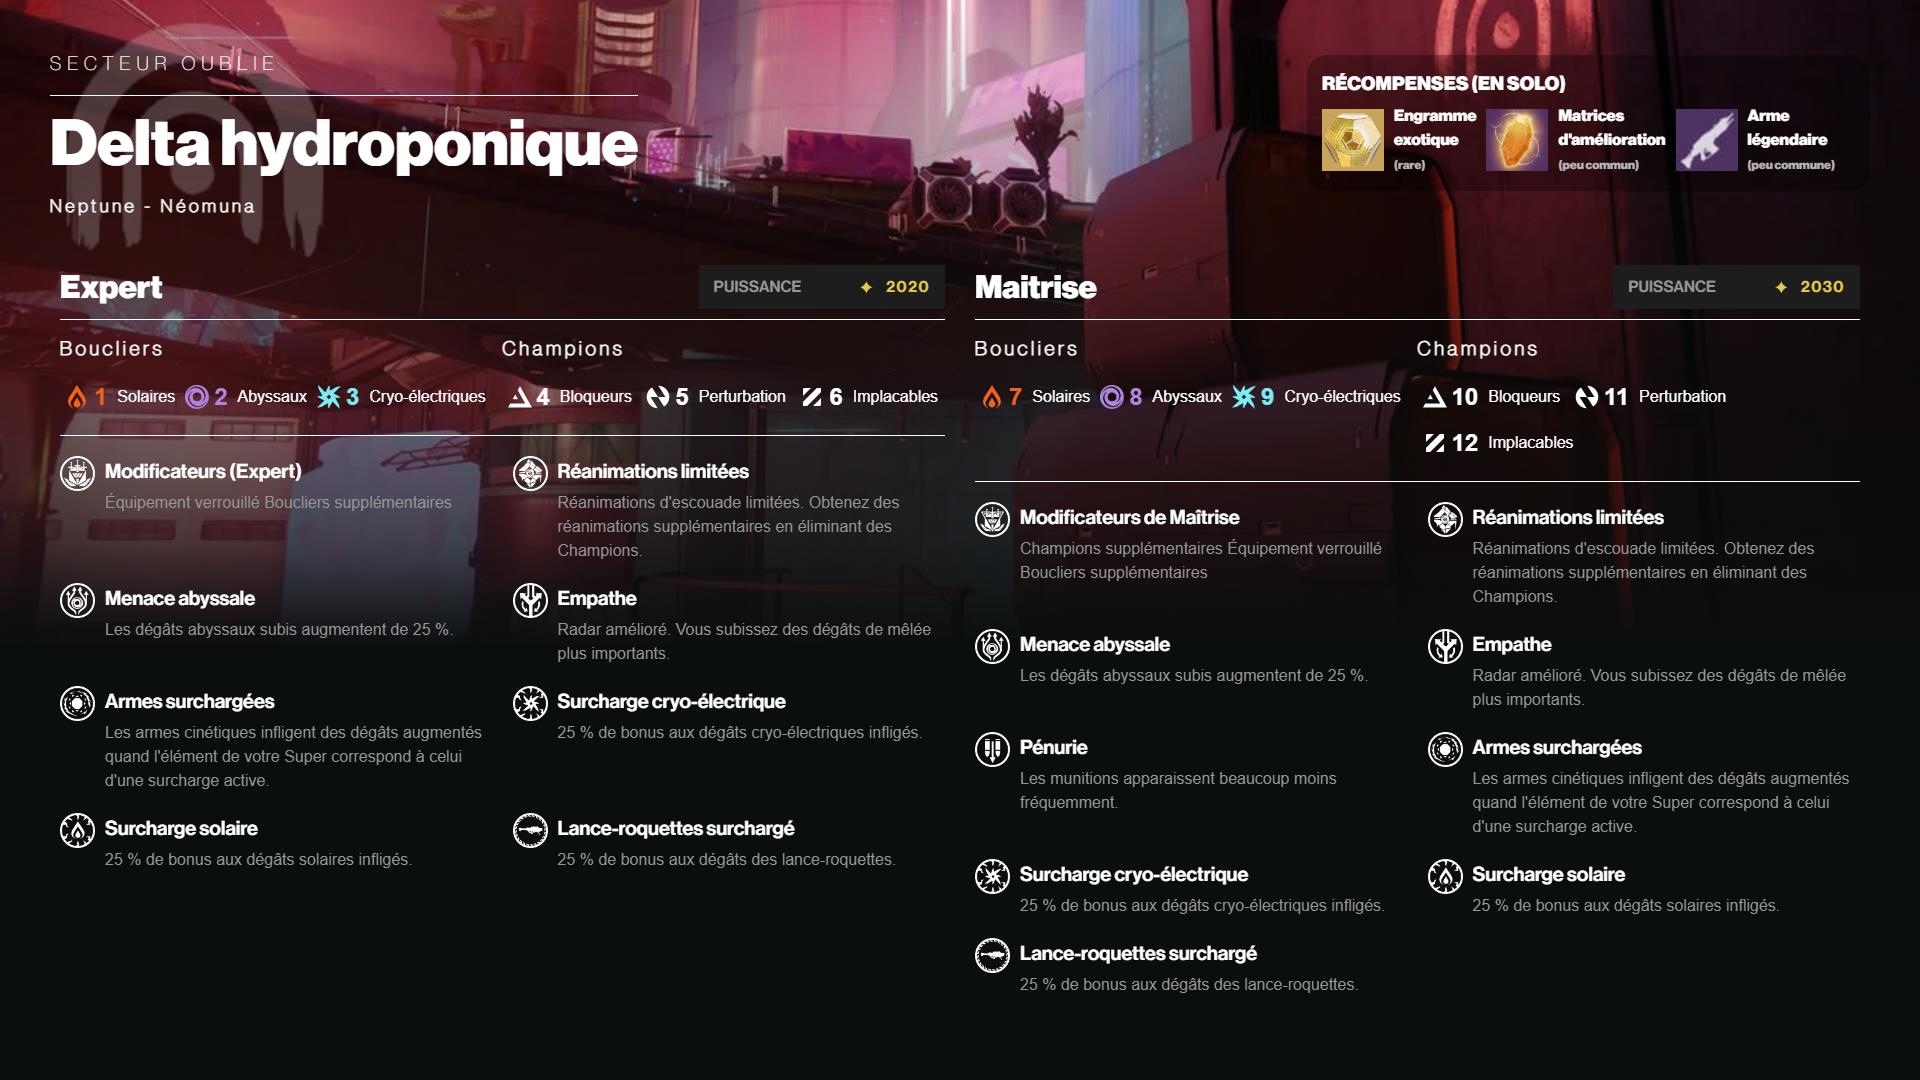
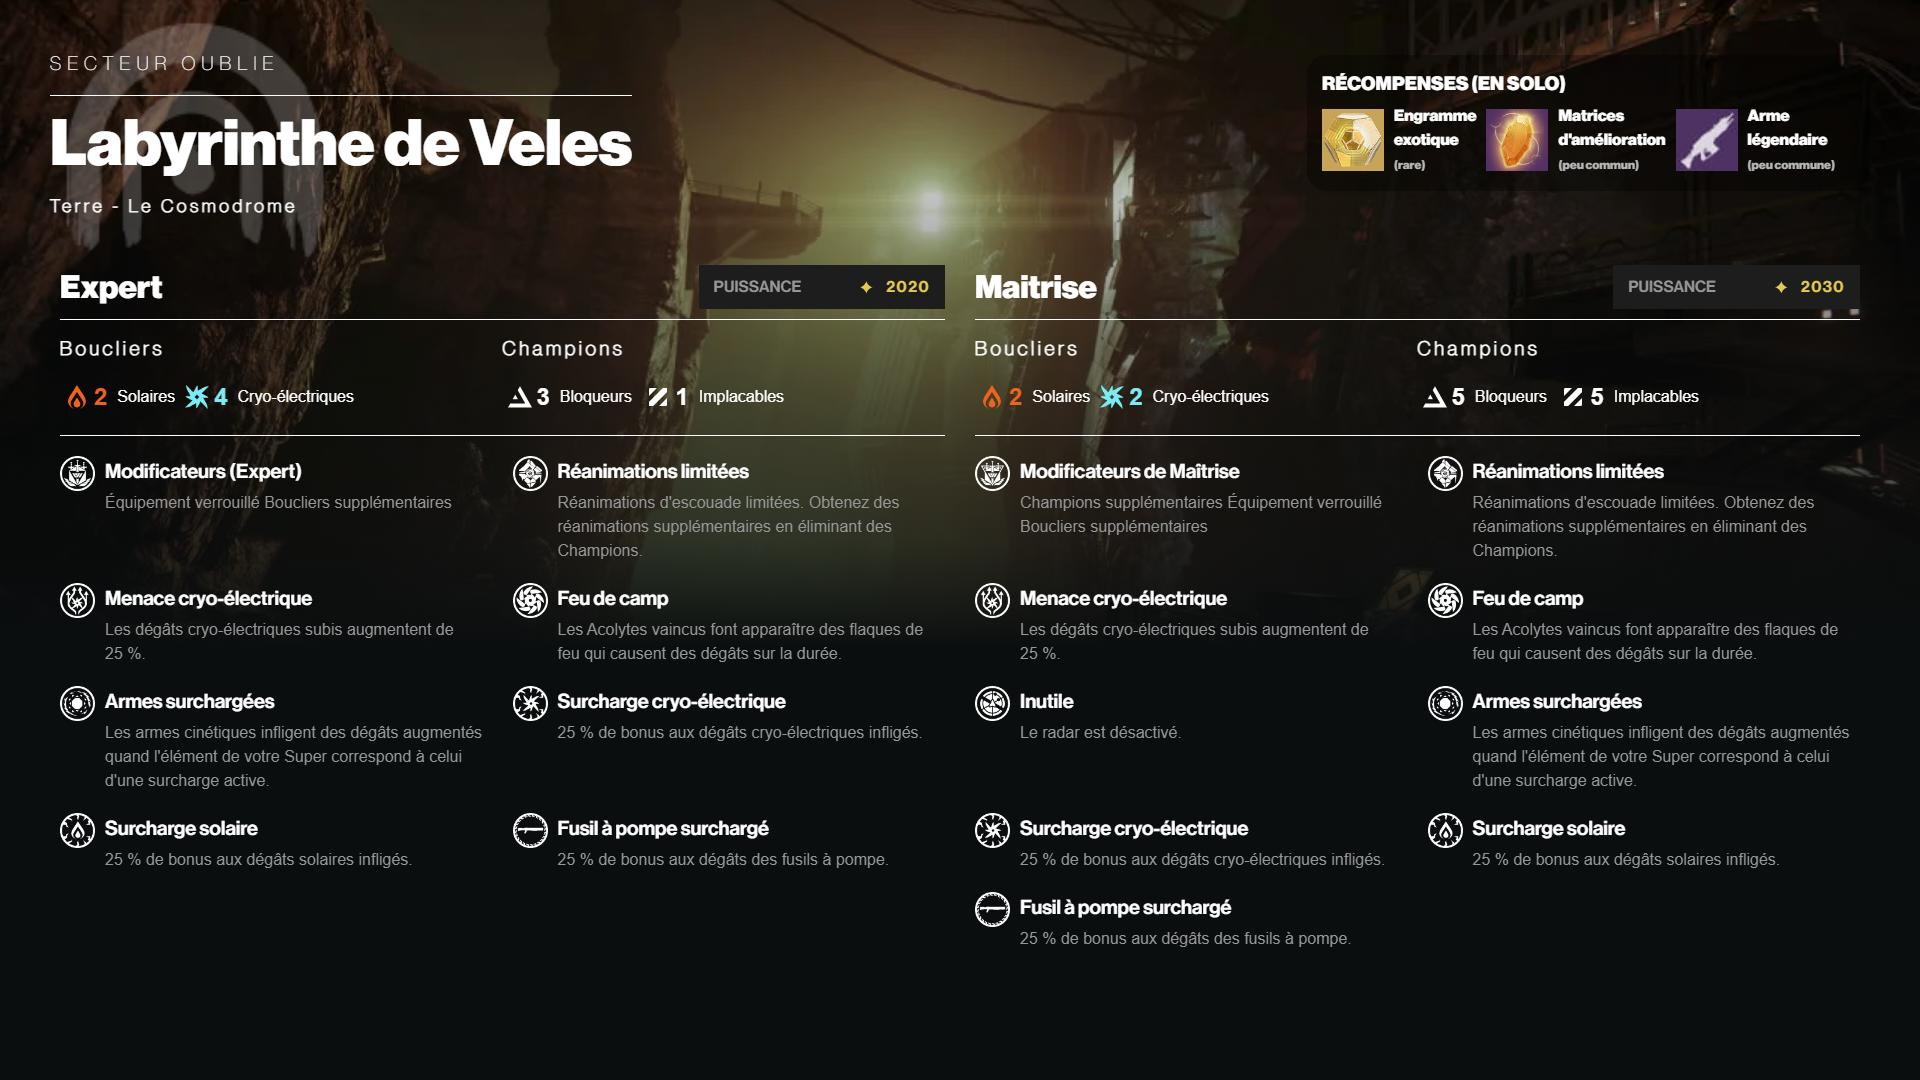
Merging Generateactivity and getter to the Bot

diff --git a/BotOfTheDisciple/Ressources/Output.html b/BotOfTheDisciple/Ressources/Output.html
@@ -10,15 +10,15 @@
 </head>
 <body>
 <div class="background">
-<img alt="Background Image" class="background-image" id="sector_background" src="https://www.bungie.net/img/destiny_content/pgcr/neomuna_lost_sector_hydroponics_delta.jpg"/>
+<img alt="Background Image" class="background-image" id="sector_background" src="https://www.bungie.net/img/destiny_content/pgcr/cosmodrome-lost-sector-dry-sea.jpg"/>
 <div class="overlay"></div>
 <div class="top-title">
 <div class="background-image-container">
 <img alt="Sector-Icon" class="toptitle-background-image" id="Sector-Icon" src="https://www.bungie.net/common/destiny2_content/icons/DestinyActivityModeDefinition_7d11acd7d5a3daebc0a0c906452932d6.png"/>
 </div>
 <p class="activity-type animated fadeInRight delay-1" id="activity_type">SECTEUR OUBLIE</p>
-<h1 class="activity-name animated fadeInRight delay-2" id="activity_name">Delta hydroponique</h1>
-<p class="activity-description animated fadeInRight delay-3" id="activity_description">Neptune - Néomuna</p>
+<h1 class="activity-name animated fadeInRight delay-2" id="activity_name">Labyrinthe de Veles</h1>
+<p class="activity-description animated fadeInRight delay-3" id="activity_description">Terre - Le Cosmodrome</p>
 </div>
 <div class="reward-section">
 <div class="reward-title">RÉCOMPENSES (EN SOLO)</div>
@@ -48,26 +48,20 @@
 <div class="column-title">Boucliers</div>
 <div class="info-shield-champ-container" id="info_shield_container_expert"><div class="info-shield-champ">
 <img src="https://www.bungie.net/common/destiny2_content/icons/DestinyDamageTypeDefinition_2a1773e10968f2d088b97c22b22bba9e.png"/>
-<span class="count Solaires">1</span>Solaires
-</div><div class="info-shield-champ">
-<img src="https://www.bungie.net/common/destiny2_content/icons/DestinyDamageTypeDefinition_ceb2f6197dccf3958bb31cc783eb97a0.png"/>
-<span class="count Abyssaux">2</span>Abyssaux
+<span class="count Solaires">2</span>Solaires
 </div><div class="info-shield-champ">
 <img src="https://www.bungie.net/common/destiny2_content/icons/DestinyDamageTypeDefinition_092d066688b879c807c3b460afdd61e6.png"/>
-<span class="count Cryo-électriques">3</span>Cryo-électriques
+<span class="count Cryo-électriques">4</span>Cryo-électriques
 </div></div>
 </div>
 <div class="shield-champion-column">
 <div class="column-title">Champions</div>
 <div class="info-shield-champ-container" id="info_champ_container_expert"><div class="info-shield-champ">
 <img src="https://www.bungie.net/common/destiny2_content/icons/DestinyBreakerTypeDefinition_07b9ba0194e85e46b258b04783e93d5d.png"/>
-<span class="count" id="text">4</span>Bloqueurs
-</div> <div class="info-shield-champ">
-<img src="https://www.bungie.net/common/destiny2_content/icons/DestinyBreakerTypeDefinition_da558352b624d799cf50de14d7cb9565.png"/>
-<span class="count" id="text">5</span>Perturbation
+<span class="count" id="text">3</span>Bloqueurs
 </div> <div class="info-shield-champ">
 <img src="https://www.bungie.net/common/destiny2_content/icons/DestinyBreakerTypeDefinition_825a438c85404efd6472ff9e97fc7251.png"/>
-<span class="count" id="text">6</span>Implacables
+<span class="count" id="text">1</span>Implacables
 </div> </div>
 </div>
 </div>
@@ -90,19 +84,19 @@ Boucliers supplémentaires</div>
 </div>
 </div><div class="modifier">
 <div class="modifier-icon">
-<img src="https://www.bungie.net/common/destiny2_content/icons/219a3080f3e7341d5ee3959c2ea3130b.png"/>
+<img src="https://www.bungie.net/common/destiny2_content/icons/facdcba310cb7ea0f8281247f72944e6.png"/>
 </div>
 <div class="modifier-text">
-<div class="modifier-title">Menace abyssale</div>
-<div class="modifier-detail">Les dégâts abyssaux subis augmentent de 25 %.</div>
+<div class="modifier-title">Menace cryo-électrique</div>
+<div class="modifier-detail">Les dégâts cryo-électriques subis augmentent de 25 %.</div>
 </div>
 </div><div class="modifier">
 <div class="modifier-icon">
-<img src="https://www.bungie.net/common/destiny2_content/icons/2cccd7f5c06baa91c1dcce43c4d57095.png"/>
+<img src="https://www.bungie.net/common/destiny2_content/icons/975f2f90e96a9640ff718e2e0155f82a.png"/>
 </div>
 <div class="modifier-text">
-<div class="modifier-title">Empathe</div>
-<div class="modifier-detail">Radar amélioré. Vous subissez des dégâts de mêlée plus importants.</div>
+<div class="modifier-title">Feu de camp</div>
+<div class="modifier-detail">Les Acolytes vaincus font apparaître des flaques de feu qui causent des dégâts sur la durée.</div>
 </div>
 </div><div class="modifier">
 <div class="modifier-icon">
@@ -130,11 +124,11 @@ Boucliers supplémentaires</div>
 </div>
 </div><div class="modifier">
 <div class="modifier-icon">
-<img src="https://www.bungie.net/common/destiny2_content/icons/5f85e125b8e9db0f1ffbb1b188955f17.png"/>
+<img src="https://www.bungie.net/common/destiny2_content/icons/7354d14aa1747248375c1e73c0c791a8.png"/>
 </div>
 <div class="modifier-text">
-<div class="modifier-title">Lance-roquettes surchargé</div>
-<div class="modifier-detail">25 % de bonus aux dégâts des lance-roquettes.</div>
+<div class="modifier-title">Fusil à pompe surchargé</div>
+<div class="modifier-detail">25 % de bonus aux dégâts des fusils à pompe.</div>
 </div>
 </div></div>
 </div>
@@ -154,26 +148,20 @@ Boucliers supplémentaires</div>
 <div class="column-title">Boucliers</div>
 <div class="info-shield-champ-container" id="info_shield_container_master"><html><body><div class="info-shield-champ">
 <img src="https://www.bungie.net/common/destiny2_content/icons/DestinyDamageTypeDefinition_2a1773e10968f2d088b97c22b22bba9e.png"/>
-<span class="count Solaires">7</span>Solaires
-</div></body></html><html><body><div class="info-shield-champ">
-<img src="https://www.bungie.net/common/destiny2_content/icons/DestinyDamageTypeDefinition_ceb2f6197dccf3958bb31cc783eb97a0.png"/>
-<span class="count Abyssaux">8</span>Abyssaux
+<span class="count Solaires">2</span>Solaires
 </div></body></html><html><body><div class="info-shield-champ">
 <img src="https://www.bungie.net/common/destiny2_content/icons/DestinyDamageTypeDefinition_092d066688b879c807c3b460afdd61e6.png"/>
-<span class="count Cryo-électriques">9</span>Cryo-électriques
+<span class="count Cryo-électriques">2</span>Cryo-électriques
 </div></body></html></div>
 </div>
 <div class="shield-champion-column">
 <div class="column-title">Champions</div>
 <div class="info-shield-champ-container" id="info_champ_container_master"><html><body><div class="info-shield-champ">
 <img src="https://www.bungie.net/common/destiny2_content/icons/DestinyBreakerTypeDefinition_07b9ba0194e85e46b258b04783e93d5d.png"/>
-<span class="count" id="text">10</span>Bloqueurs
-</div> </body></html><html><body><div class="info-shield-champ">
-<img src="https://www.bungie.net/common/destiny2_content/icons/DestinyBreakerTypeDefinition_da558352b624d799cf50de14d7cb9565.png"/>
-<span class="count" id="text">11</span>Perturbation
+<span class="count" id="text">5</span>Bloqueurs
 </div> </body></html><html><body><div class="info-shield-champ">
 <img src="https://www.bungie.net/common/destiny2_content/icons/DestinyBreakerTypeDefinition_825a438c85404efd6472ff9e97fc7251.png"/>
-<span class="count" id="text">12</span>Implacables
+<span class="count" id="text">5</span>Implacables
 </div> </body></html></div>
 </div>
 </div>
@@ -197,27 +185,27 @@ Boucliers supplémentaires</div>
 </div>
 </div></body></html><html><body><div class="modifier">
 <div class="modifier-icon">
-<img src="https://www.bungie.net/common/destiny2_content/icons/219a3080f3e7341d5ee3959c2ea3130b.png"/>
+<img src="https://www.bungie.net/common/destiny2_content/icons/facdcba310cb7ea0f8281247f72944e6.png"/>
 </div>
 <div class="modifier-text">
-<div class="modifier-title">Menace abyssale</div>
-<div class="modifier-detail">Les dégâts abyssaux subis augmentent de 25 %.</div>
+<div class="modifier-title">Menace cryo-électrique</div>
+<div class="modifier-detail">Les dégâts cryo-électriques subis augmentent de 25 %.</div>
 </div>
 </div></body></html><html><body><div class="modifier">
 <div class="modifier-icon">
-<img src="https://www.bungie.net/common/destiny2_content/icons/2cccd7f5c06baa91c1dcce43c4d57095.png"/>
+<img src="https://www.bungie.net/common/destiny2_content/icons/975f2f90e96a9640ff718e2e0155f82a.png"/>
 </div>
 <div class="modifier-text">
-<div class="modifier-title">Empathe</div>
-<div class="modifier-detail">Radar amélioré. Vous subissez des dégâts de mêlée plus importants.</div>
+<div class="modifier-title">Feu de camp</div>
+<div class="modifier-detail">Les Acolytes vaincus font apparaître des flaques de feu qui causent des dégâts sur la durée.</div>
 </div>
 </div></body></html><html><body><div class="modifier">
 <div class="modifier-icon">
-<img src="https://www.bungie.net/common/destiny2_content/icons/ceec41607610e844a1c8bb5ca877e62a.png"/>
+<img src="https://www.bungie.net/common/destiny2_content/icons/c15f55a423934f6a96c95873d72306a2.png"/>
 </div>
 <div class="modifier-text">
-<div class="modifier-title">Pénurie</div>
-<div class="modifier-detail">Les munitions apparaissent beaucoup moins fréquemment.</div>
+<div class="modifier-title">Inutile</div>
+<div class="modifier-detail">Le radar est désactivé.</div>
 </div>
 </div></body></html><html><body><div class="modifier">
 <div class="modifier-icon">
@@ -245,11 +233,11 @@ Boucliers supplémentaires</div>
 </div>
 </div></body></html><html><body><div class="modifier">
 <div class="modifier-icon">
-<img src="https://www.bungie.net/common/destiny2_content/icons/5f85e125b8e9db0f1ffbb1b188955f17.png"/>
+<img src="https://www.bungie.net/common/destiny2_content/icons/7354d14aa1747248375c1e73c0c791a8.png"/>
 </div>
 <div class="modifier-text">
-<div class="modifier-title">Lance-roquettes surchargé</div>
-<div class="modifier-detail">25 % de bonus aux dégâts des lance-roquettes.</div>
+<div class="modifier-title">Fusil à pompe surchargé</div>
+<div class="modifier-detail">25 % de bonus aux dégâts des fusils à pompe.</div>
 </div>
 </div></body></html></div>
 </div>

diff --git a/BotOfTheDisciple/BotOfTheDiciple.py b/BotOfTheDisciple/BotOfTheDiciple.py
@@ -1,4 +1,5 @@
 import os
+import sys
 import discord
 from discord import app_commands
 from discord.ext import commands
@@ -6,11 +7,12 @@ from datetime import datetime, date
 import random
 import pytz
 import asyncio
-import pandas as pd
 import requests
-import chardet
-from io import StringIO
 from collections import Counter
+
+sys.path.append(os.path.abspath(os.path.join(os.path.dirname(__file__), '..')))
+sys.path.append(os.path.abspath(os.path.join(os.path.dirname(__file__), '../PythonProject/Source')))
+from PythonProject.Source.LostSectorGenerator import *
 
 intents = discord.Intents.default()
 intents.message_content = True
@@ -35,6 +37,9 @@ async def on_ready():
     # Debug pour vérifier les commandes enregistrées
     for command in bot.tree.get_commands():
         print(f'Command: {command.name}, Description: {command.description}')
+
+    # Actualisation du Secteur oublié du jour lorsque le bot s'initialise
+    GenerateActivity()
 
 # Enregistrement des commandes slash
 @bot.tree.command(name="help", description="Liste des commandes disponibles")
@@ -271,100 +276,73 @@ async def chatgif(interaction: discord.Interaction):
 # endregion
 
 # region LostSectorPublication
-# Section : Détection de l'encodage
-def detect_encoding(data):
-    result = chardet.detect(data)
-    return result['encoding']
-
-# Section : Lecture du Google Sheet
-def read_google_sheet(sheet_id: str, page_id_current: int) -> pd.DataFrame:
-    url = f"https://docs.google.com/spreadsheets/d/{sheet_id}/export?gid={page_id_current}&format=csv"
-    response = requests.get(url)
-    response.raise_for_status()
-
-    # Détection de l'encodage
-    detected_encoding = detect_encoding(response.content)
-
-    # Conversion en UTF-8
-    csv_data = response.content.decode(detected_encoding).encode('utf-8').decode('utf-8')
-    df = pd.read_csv(StringIO(csv_data), encoding='utf-8')
-    return df
-
-# Section : Fabrication des fields
-def create_fields(df: pd.DataFrame) -> dict:
-    row = df.loc[0]  # Lire la première ligne (index 0)
-
-    # Vérification des colonnes nécessaires
-    required_columns = [
-        "Nom", "Surcharge1", "Surcharge2", "Power Expert", "Power Maitrise", "Expert Solaires",
-        "Expert Abyssaux", "Expert Cryo-électriques", "Expert Stasiques", "Expert Filobscures",
-        "Expert Brise-bouclier", "Expert Perturbation", "Expert Chancellement", "Maitrise Solaires",
-        "Maitrise Abyssaux", "Maitrise Cryo-électriques", "Maitrise Stasiques", "Maitrise Filobscures",
-        "Maitrise Brise-bouclier", "Maitrise Perturbation", "Maitrise Chancellement"
-    ]
-
-    for col in required_columns:
-        if col not in df.columns:
-            raise ValueError(f"Colonne manquante: {col}")
-
-    # Parser les informations nécessaires, en ignorant les valeurs "nan"
-    fields = {col: row[col] if not pd.isna(row[col]) else None for col in required_columns}
-    return fields
-
 # Section : Fabrication de l'embed
-def create_embed(fields: dict) -> discord.Embed:
+def create_embed() -> discord.Embed:
     # Gestion des surcharges
     surcharges = []
-    if fields["Surcharge1"] == "Cryo" or fields["Surcharge2"] == "Cryo":
-        surcharges.append("<:Cryo:1270715011781627904>")
-    if fields["Surcharge1"] == "Abyssale" or fields["Surcharge2"] == "Abyssale":
-        surcharges.append("<:Abyssale:1270715025660711023>")
-    if fields["Surcharge1"] == "Solaire" or fields["Surcharge2"] == "Solaire":
-        surcharges.append("<:Solaire:1270714993553178624>")
+    for surcharge in GetSurcharges():
+        if surcharge == "Cryo":
+            surcharges.append("<:Cryo:1270715011781627904>")
+        elif surcharge == "Abyssale":
+            surcharges.append("<:Abyssale:1270715025660711023>")
+        elif surcharge == "Solaire":
+            surcharges.append("<:Solaire:1270714993553178624>")
 
     # Construction des champs Expert et Maitrise
     expert_field_value = ""
     maitrise_field_value = ""
 
-    if any(fields[col] for col in ["Expert Solaires", "Expert Abyssaux", "Expert Cryo-électriques"]):
+    # Boucliers Expert
+    expert_shields = GetShields(True)
+    if expert_shields:
         expert_field_value += "Boucliers\n"
-        if fields["Expert Solaires"]:
-            expert_field_value += f"> <:Solaire:1270714993553178624> {fields['Expert Solaires']}\n"
-        if fields["Expert Abyssaux"]:
-            expert_field_value += f"> <:Abyssale:1270715025660711023> {fields['Expert Abyssaux']}\n"
-        if fields["Expert Cryo-électriques"]:
-            expert_field_value += f"> <:Cryo:1270715011781627904> {fields['Expert Cryo-électriques']}\n"
+        for shield, count in expert_shields.items():
+            if shield == "Solaires":
+                expert_field_value += f"> <:Solaire:1270714993553178624> {count}\n"
+            elif shield == "Abyssaux":
+                expert_field_value += f"> <:Abyssale:1270715025660711023> {count}\n"
+            elif shield == "Cryo-électriques":
+                expert_field_value += f"> <:Cryo:1270715011781627904> {count}\n"
 
-    if any(fields[col] for col in ["Expert Brise-bouclier", "Expert Perturbation", "Expert Chancellement"]):
+    # Champions Expert
+    expert_champs = GetChamps(True)
+    if expert_champs:
         expert_field_value += "\nChampions\n"
-        if fields["Expert Brise-bouclier"]:
-            expert_field_value += f"> <:Bloqueur:1270042102033678388> {fields['Expert Brise-bouclier']}\n"
-        if fields["Expert Perturbation"]:
-            expert_field_value += f"> <:Surcharge:1270042140944236619> {fields['Expert Perturbation']}\n"
-        if fields["Expert Chancellement"]:
-            expert_field_value += f"> <:Implacable:1270042120857849877> {fields['Expert Chancellement']}\n"
+        for champ, count in expert_champs.items():
+            if champ == "Brise-bouclier":
+                expert_field_value += f"> <:Bloqueur:1270042102033678388> {count}\n"
+            elif champ == "Perturbation":
+                expert_field_value += f"> <:Surcharge:1270042140944236619> {count}\n"
+            elif champ == "Chancellement":
+                expert_field_value += f"> <:Implacable:1270042120857849877> {count}\n"
 
-    if any(fields[col] for col in ["Maitrise Solaires", "Maitrise Abyssaux", "Maitrise Cryo-électriques"]):
+    # Boucliers Maitrise
+    maitrise_shields = GetShields(False)
+    if maitrise_shields:
         maitrise_field_value += "Boucliers\n"
-        if fields["Maitrise Solaires"]:
-            maitrise_field_value += f"> <:Solaire:1270714993553178624> {fields['Maitrise Solaires']}\n"
-        if fields["Maitrise Abyssaux"]:
-            maitrise_field_value += f"> <:Abyssale:1270715025660711023> {fields['Maitrise Abyssaux']}\n"
-        if fields["Maitrise Cryo-électriques"]:
-            maitrise_field_value += f"> <:Cryo:1270715011781627904> {fields['Maitrise Cryo-électriques']}\n"
+        for shield, count in maitrise_shields.items():
+            if shield == "Solaires":
+                maitrise_field_value += f"> <:Solaire:1270714993553178624> {count}\n"
+            elif shield == "Abyssaux":
+                maitrise_field_value += f"> <:Abyssale:1270715025660711023> {count}\n"
+            elif shield == "Cryo-électriques":
+                maitrise_field_value += f"> <:Cryo:1270715011781627904> {count}\n"
 
-    if any(fields[col] for col in ["Maitrise Brise-bouclier", "Maitrise Perturbation", "Maitrise Chancellement"]):
+    # Champions Maitrise
+    maitrise_champs = GetChamps(False)
+    if maitrise_champs:
         maitrise_field_value += "\nChampions\n"
-        if fields["Maitrise Brise-bouclier"]:
-            maitrise_field_value += f"> <:Bloqueur:1270042102033678388> {fields['Maitrise Brise-bouclier']}\n"
-        if fields["Maitrise Perturbation"]:
-            maitrise_field_value += f"> <:Surcharge:1270042140944236619> {fields['Maitrise Perturbation']}\n"
-        if fields["Maitrise Chancellement"]:
-            maitrise_field_value += f"> <:Implacable:1270042120857849877> {fields['Maitrise Chancellement']}\n"
+        for champ, count in maitrise_champs.items():
+            if champ == "Brise-bouclier":
+                maitrise_field_value += f"> <:Bloqueur:1270042102033678388> {count}\n"
+            elif champ == "Perturbation":
+                maitrise_field_value += f"> <:Surcharge:1270042140944236619> {count}\n"
+            elif champ == "Chancellement":
+                maitrise_field_value += f"> <:Implacable:1270042120857849877> {count}\n"
 
     # Créer un embed pour afficher les informations
     embed = discord.Embed(
-        title=fields["Nom"],
+        title=GetActivityName(),
         description=(
             "**Récompenses**\n"
             "<:Engramme_Exo:1270719580322660425> | <:Lengendaire:1270719601646374954> | <:Matrice:1270042340324544604>"
@@ -378,16 +356,17 @@ def create_embed(fields: dict) -> discord.Embed:
         icon_url="https://www.bungie.net/common/destiny2_content/icons/DestinyActivityModeDefinition_7d11acd7d5a3daebc0a0c906452932d6.png"
     )
 
+    # Ajout des champs pour Expert et Maitrise
     if expert_field_value.strip():  # Ajouter uniquement si le contenu n'est pas vide
         embed.add_field(
-            name=f"Expert ({fields['Power Expert']})",
+            name=f"Expert ({GetPower(True)})",
             value=expert_field_value.strip(),
             inline=True
         )
 
     if maitrise_field_value.strip():  # Ajouter uniquement si le contenu n'est pas vide
         embed.add_field(
-            name=f"Maitrise ({fields['Power Maitrise']})",
+            name=f"Maitrise ({GetPower(False)})",
             value=maitrise_field_value.strip(),
             inline=True
         )
@@ -416,13 +395,8 @@ def create_embed(fields: dict) -> discord.Embed:
 # Section : Commande principale
 @bot.tree.command(name="ls", description="Obtenez les informations du Secteur Oublié du jour")
 async def today_lost_sector(interaction: discord.Interaction):
-    sheet_id = "1yzlUK5dlqhSg0ZGQ79o-4n9j2mRZiFgECi1CBI1Ht1I"
-    page_id_current = 1205713815  # Remplacez par l'ID de votre page actuelle
-
     try:
-        df = read_google_sheet(sheet_id, page_id_current)
-        fields = create_fields(df)
-        embed = create_embed(fields)
+        embed = create_embed()
 
         # Chemins vers les images dans le répertoire Ressources
         footer_icon_path = "Ressources/footer_icon.png"  # Mise à jour du chemin
@@ -439,7 +413,7 @@ async def today_lost_sector(interaction: discord.Interaction):
         await interaction.response.send_message(embed=embed, files=[footer_icon_file, lost_sector_image_file])
 
     except Exception as e:
-        await interaction.response.send_message(f"Erreur lors de la lecture des données: {e}", ephemeral=True)
+        await interaction.response.send_message(f"Erreur lors de la génération de l'activité: {e}", ephemeral=True)
         print(f"Erreur: {e}")  # Débogage : affichez l'erreur
 
 # endregion
